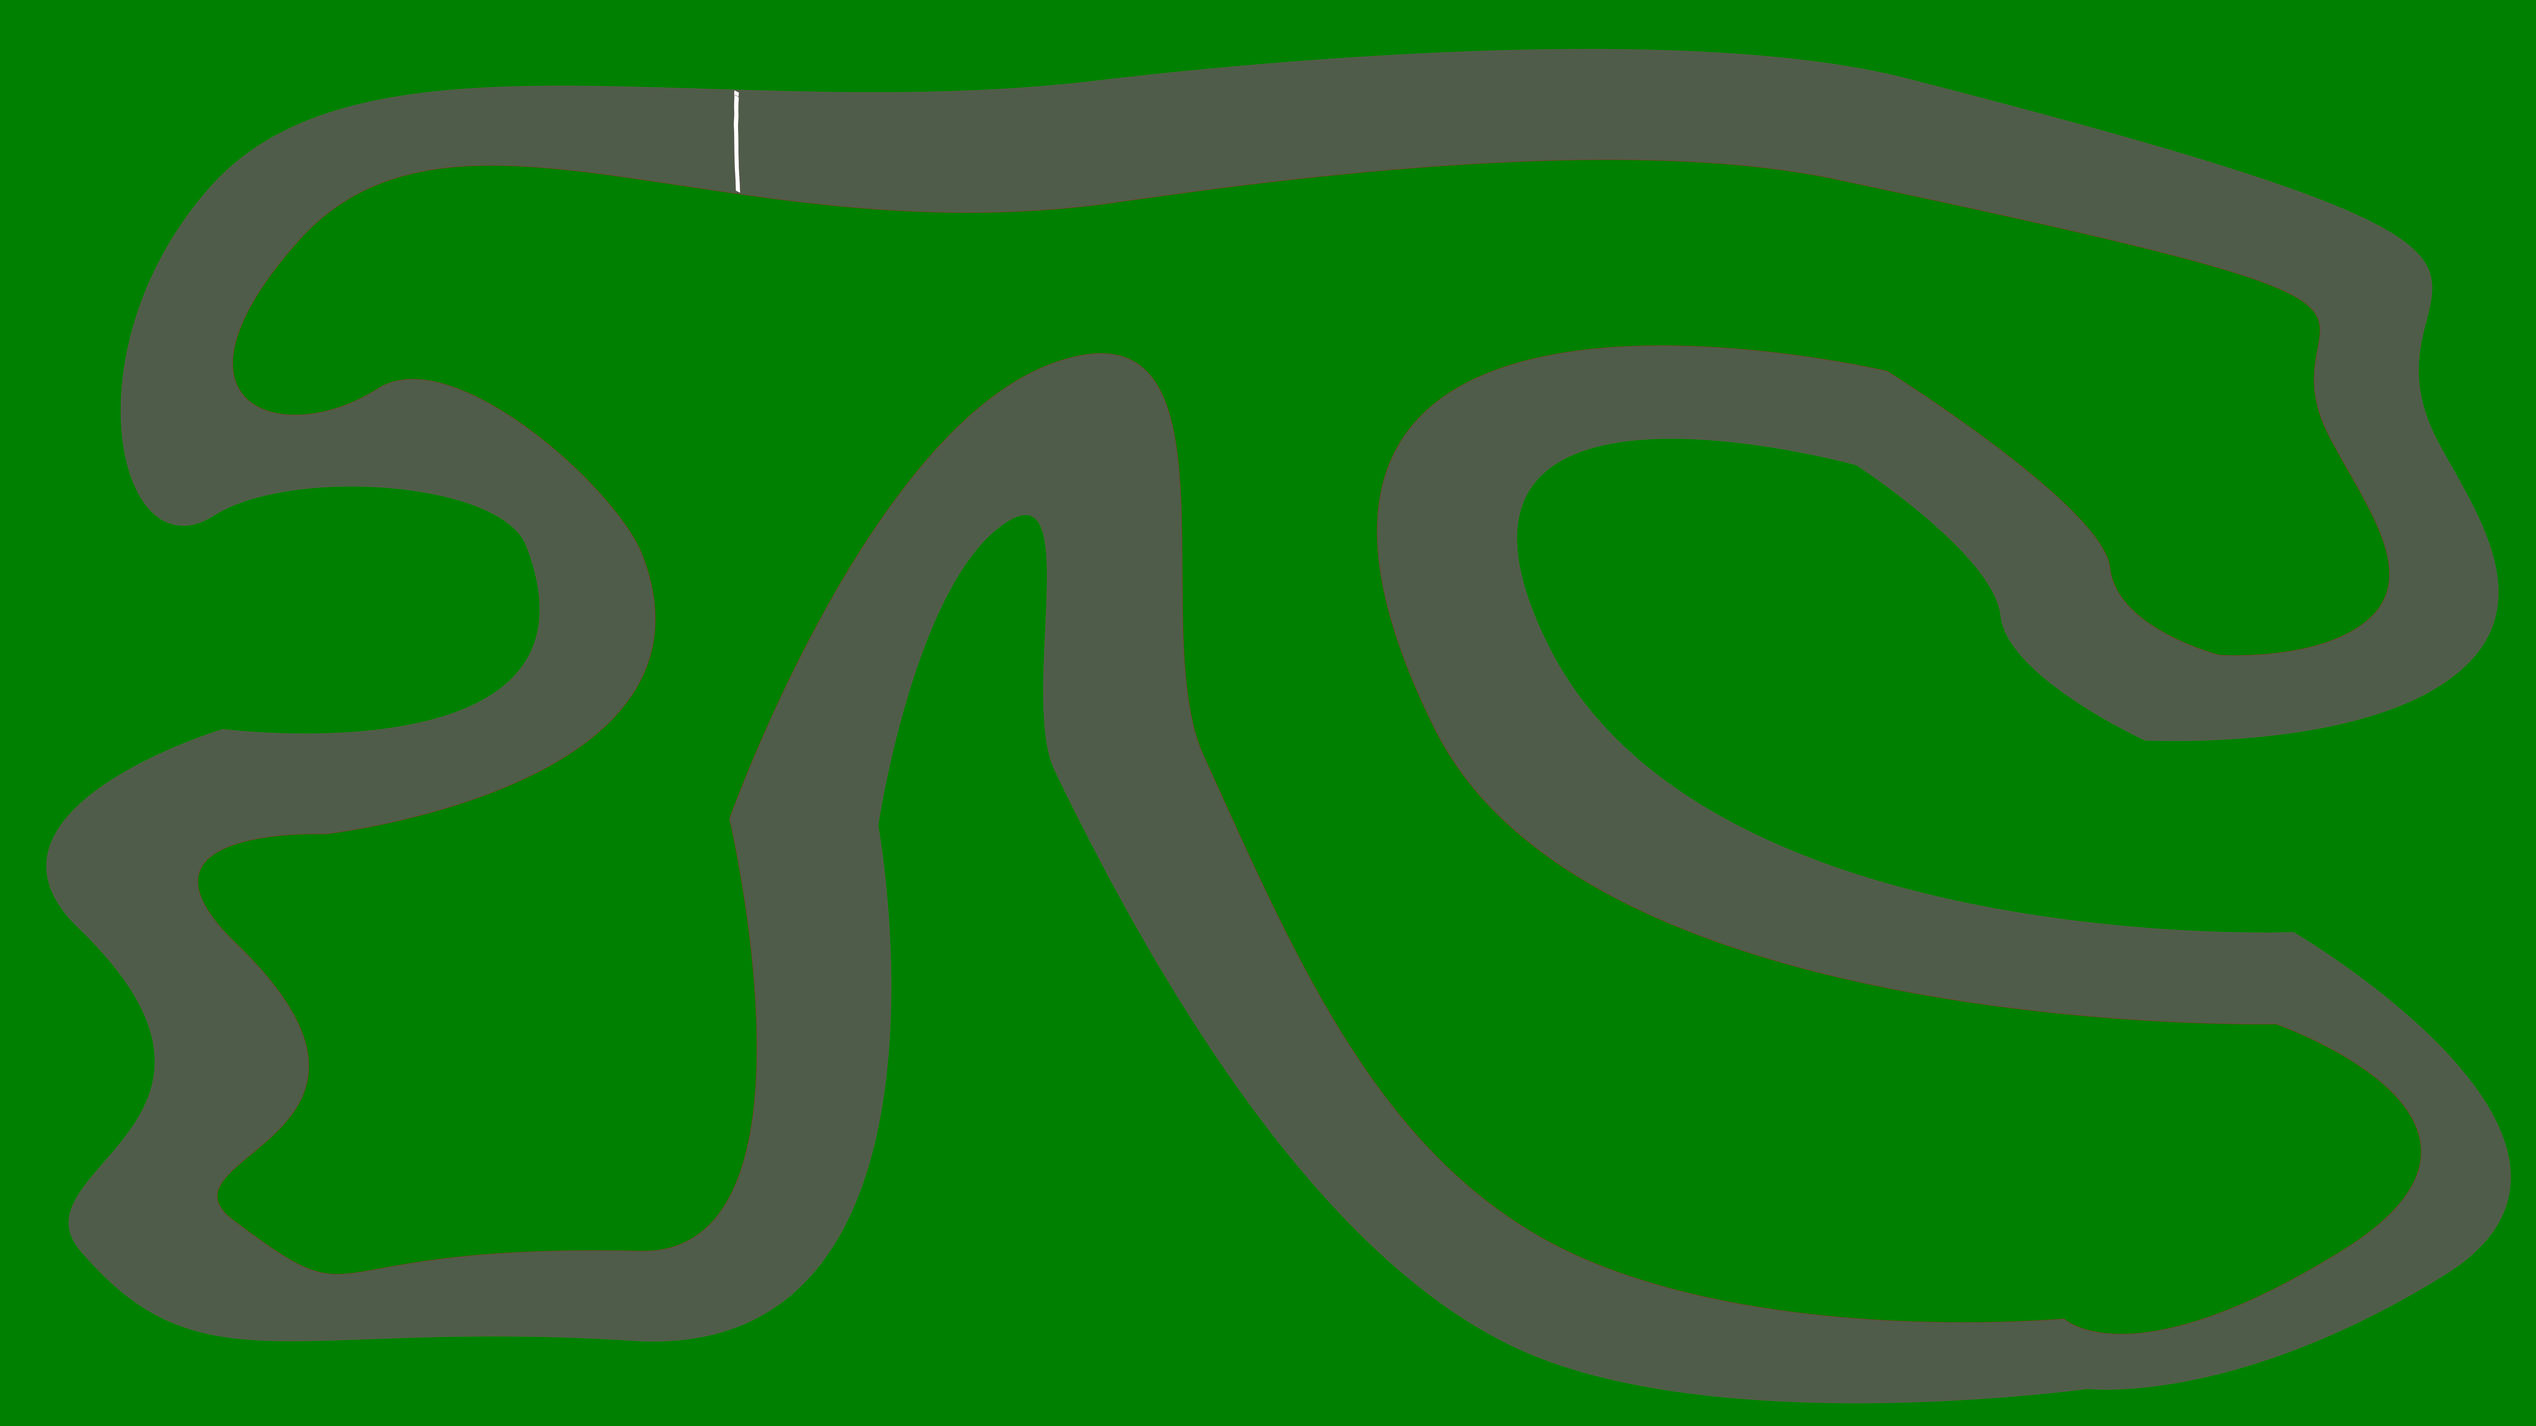
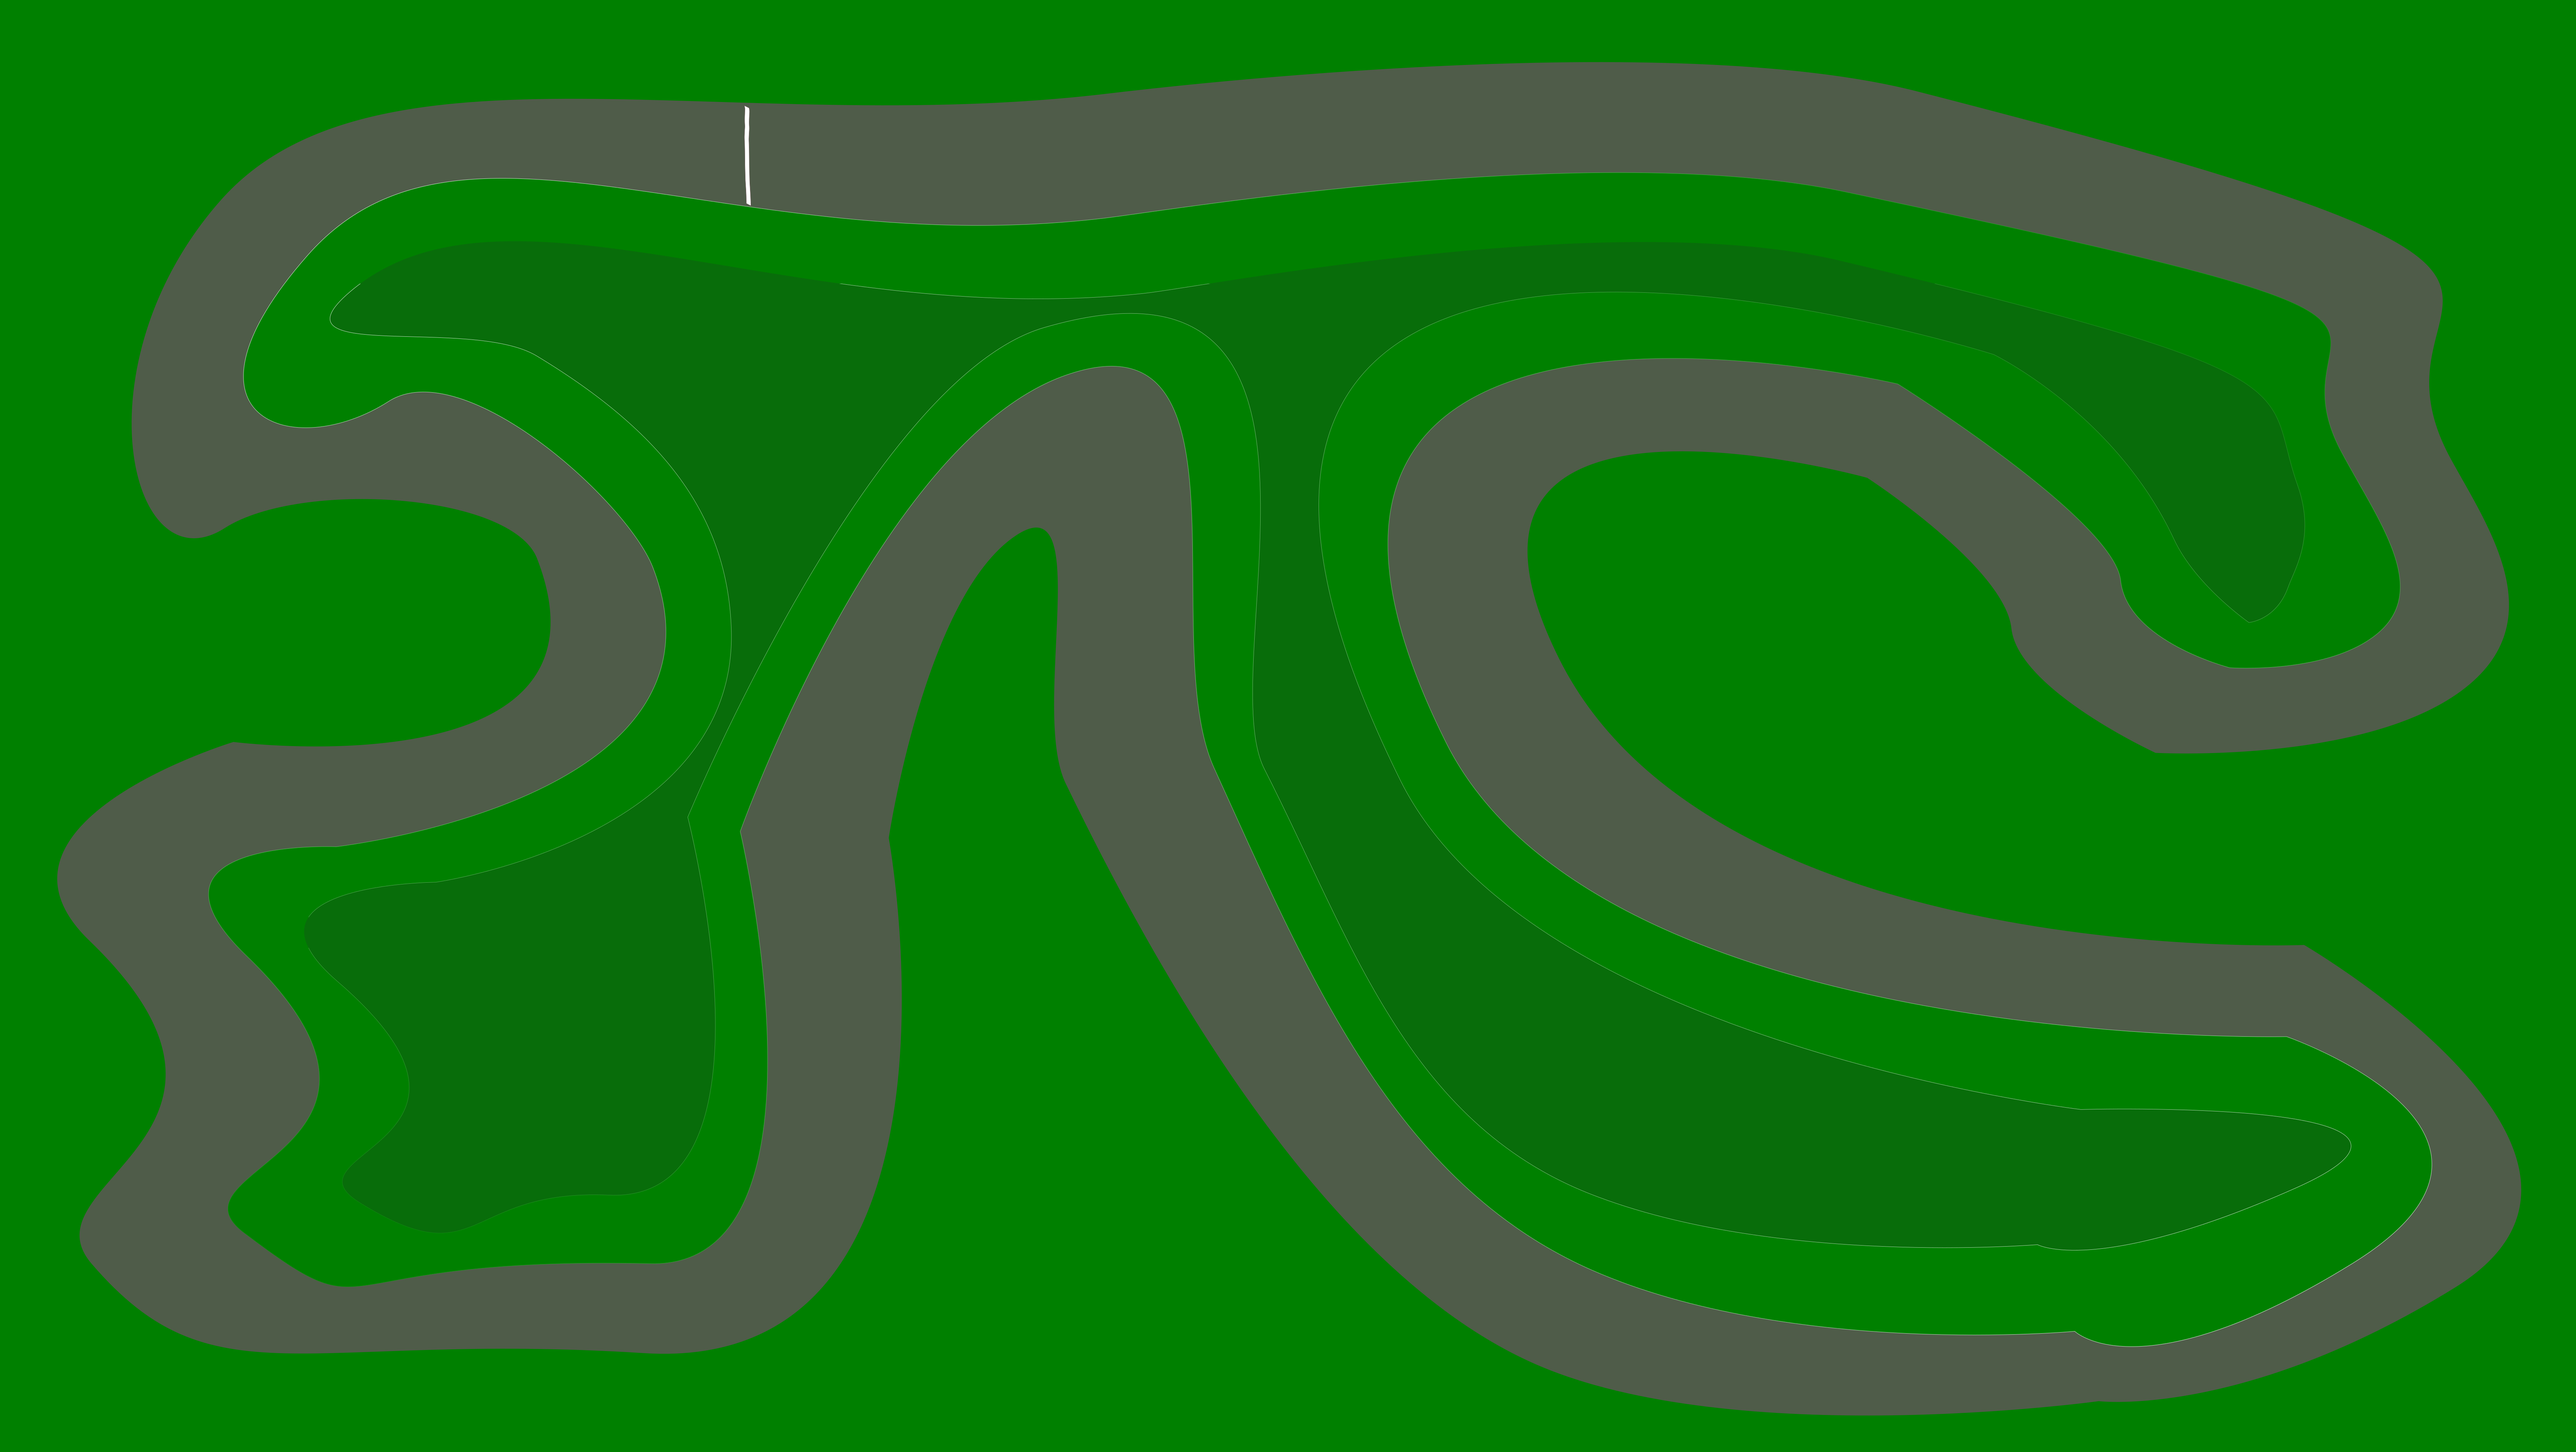
Add cheating prevention

diff --git a/src/physics.py b/src/physics.py
@@ -89,6 +89,14 @@ class Car:
             enlargen_img = pygame.transform.scale_by(img, (CAR_SPRITESTACK_ENLARGE, CAR_SPRITESTACK_ENLARGE))
             self.layers.append(enlargen_img)
 
+    def play_again(self, x, y, angular_velocity):
+        self.off_track = False
+        self.has_started = False
+        self.is_winner = False
+        self.position = Vector(x, y)
+        self.velocity = Vector()
+        self.angular_velocity = angular_velocity
+
     def get_corners(self):
         """Get the rotated corners of the car."""
         half_width = self.width / 2
@@ -162,7 +170,7 @@ class Car:
             if diff.dot(collision_normal) < 0:
                 collision_normal = Vector(-collision_normal.x, -collision_normal.y)
 
-            separation = collision_normal * (min_overlap / 2 + 1)  # Add 1 pixel to ensure separation
+            separation = collision_normal * (min_overlap / 2 + 1)
             self.position = self.position + separation
             other_car.position = other_car.position - separation
 
@@ -189,9 +197,11 @@ class Car:
         car_pos = (int(self.position.x), int(self.position.y))
         self.off_track = not track.is_on_track(car_pos)
         self.is_winner = track.is_on_race_line(self)
+        is_cheating = track.is_cheating(car_pos)
 
         # Reduce speed if offtrack
         speed_multiplier = 0.4 if self.off_track else 1.0
+        speed_multiplier = 0.2 if is_cheating else 1.0
 
         if keys[self.controls['up']]:
             self.acceleration = Vector(
@@ -206,7 +216,7 @@ class Car:
         else:
             self.acceleration = Vector()
 
-        is_moving = self.velocity.length() > 0.7
+        is_moving = self.velocity.length() > CAR_TURN_LIMITER
         if keys[self.controls['left']]:
             if is_moving:
                 self.angular_velocity -= CAR_FORWARD_VELOCITY * speed_multiplier
@@ -314,6 +324,22 @@ class Track:
         self.p2_start = TRACKS[track_num][2] # tuple coordinates
         self.angular_velocity = TRACKS[track_num][3]
 
+    def is_cheating(self, position):
+        """Check if a position is out of track and player is trying to cheat."""
+        x, y = position
+
+        if not (0 <= x < self.width and 0 <= y < self.height):
+            return False
+
+        try:
+            color = self.track_image.get_at((int(x), int(y)))
+            # Track color is around RGB(8, 109, 10)
+            return (abs(color[0] - 8) < 9 and
+                    abs(color[1] - 109) < 9 and
+                    abs(color[2] - 10) < 9)
+        except IndexError:
+            return False
+
     def is_on_track(self, position):
         """Check if a position is on the track."""
         x, y = position
@@ -323,6 +349,7 @@ class Track:
 
         try:
             color = self.track_image.get_at((int(x), int(y)))
+            print(color)
             # Track color is around RGB(79, 92, 73)
             return (abs(color[0] - 79) < 15 and
                     abs(color[1] - 92) < 15 and

diff --git a/src/game.py b/src/game.py
@@ -6,8 +6,6 @@ pygame.init()
 from utils import *
 
 screen = pygame.display.set_mode((SCREEN_WIDTH, SCREEN_HEIGHT))
-# Fill background with green
-screen.fill((0, 255, 0))
 pygame.display.set_icon(icon)
 pygame.display.set_caption(GAME_NAME)
 
@@ -64,6 +62,8 @@ while True:
                 current_state = COUNTDOWN  # Switch to countdown state
             if current_state == END_GAME:
                 current_state = MENU
+                car1.play_again(track.p1_start[0], track.p1_start[1], track.angular_velocity)
+                car2.play_again(track.p2_start[0], track.p2_start[1], track.angular_velocity)
                 pygame.display.update()
 
     if car1.is_winner:
@@ -71,13 +71,11 @@ while True:
         draw_text("Player 1 is the winner!", menu_font, GREEN, screen, SCREEN_WIDTH // 2, SCREEN_HEIGHT // 2)
         pygame.display.update()
         current_state = END_GAME
-        car1.is_winner = False
     if car2.is_winner:
         screen.fill(GRAY)
         draw_text("Player 2 is the winner!", menu_font, GREEN, screen, SCREEN_WIDTH // 2, SCREEN_HEIGHT // 2)
         pygame.display.update()
         current_state = END_GAME
-        car2.is_winner = False
 
     if current_state == MENU:
         screen.fill(GRAY)

diff --git a/src/constants.py b/src/constants.py
@@ -33,6 +33,7 @@ CAR_BACKWARD_VELOCITY = 0.09
 CAR_SPRITESTACK_ENLARGE = 3
 CAR_LAYER_SPREAD = 3
 CAR_COLLISION_BOUNCE = 0.5
+CAR_TURN_LIMITER = 0.5
 
 # Camera constants
 CAMERA_SMOOTHNESS = 1.5
